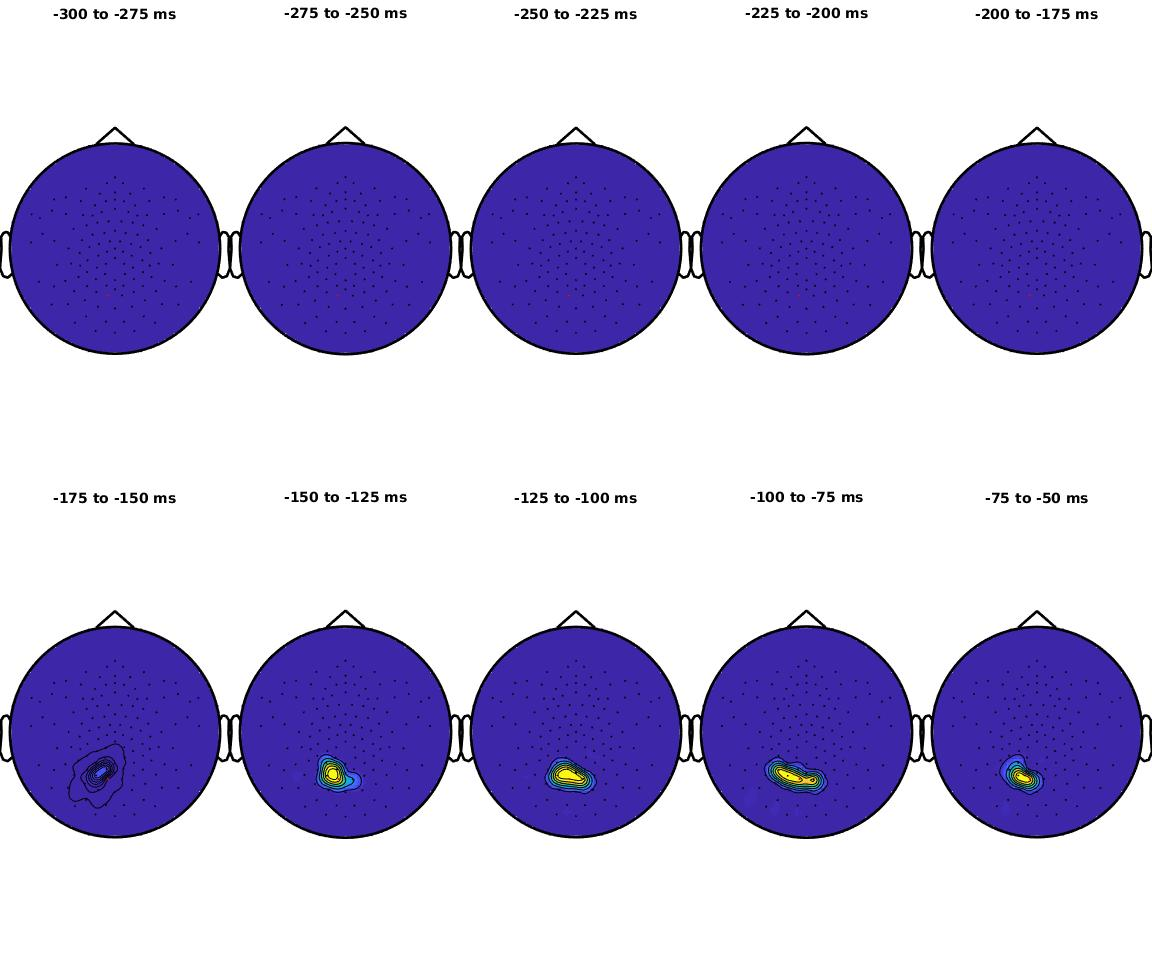
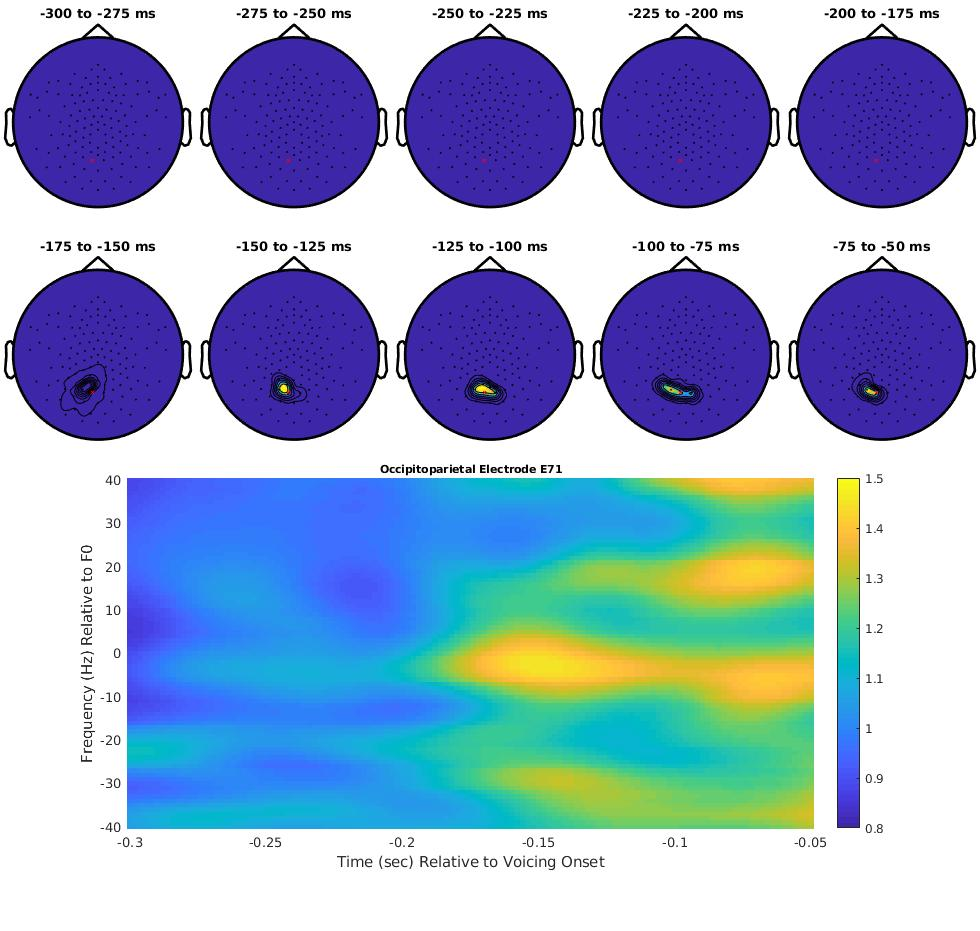
consolidates cluster plot and single electrode TFR into one figure

diff --git a/analysis.m b/analysis.m
@@ -91,52 +91,7 @@ cfg.uvar = 2; % and the second contains the subject number (unit variable)
 
 [stat] = ft_freqstatistics(cfg, activationAll, baselineAll);
 save('stat.mat', 'stat');
-
-%% plot group average TFR without mask
-cfg = [];
-cfg.maskstyle    = 'saturation';
-%cfg.zlim           = [1 5];
-cfg.baseline       = [-.55 -.3];
-cfg.ylim           = [-40 40];
-cfg.xlim           = [-.3 -0.05];
-cfg.baselinetype   = 'relchange';
-cfg.colormap = jet(30);
-cfg.channel      = {'all', '-E126', '-E127'};
-cfg.elec = ELEC;
-figure;
-ft_multiplotTFR(cfg,TFR);
-
-%% 
-cfg = [];
-cfg.maskstyle    = 'saturation';
-%cfg.zlim           = [1 5];
-cfg.baseline       = [-.55 -.3];
-cfg.ylim           = [-40 40];
-cfg.xlim           = [-.3 -0.05];
-cfg.baselinetype   = 'relative';
-cfg.colormap = jet(30);
-cfg.channel      = 'Cz';
-cfg.elec = ELEC;
-figure;
-ft_singleplotTFR(cfg,TFR);  
-
-
-%% single plot (without mask)
-% baseline the TFR
-cfg.baseline = [-.55 -.3];
-cfg.baselinetype = 'relative'; % 'relative' computes ERSP
-cfg.parameter = 'powspctrm';
-[TFR_ersp] = ft_freqbaseline(cfg, TFR);
-
-cfg = [];
-cfg.maskstyle = 'saturation';
-cfg.ylim = [-40 40];
-cfg.xlim = [-.3 -.05];
-%cfg.zlim = [.8 ];
-cfg.channel      = 'E71';
-cfg.elec = ELEC;
-figure;
-ft_singleplotTFR(cfg, TFR_ersp);  
+  
 
 
 %% cluster plot (masked)
@@ -168,12 +123,12 @@ j = [-.3:timestep:-.05];
 [i1,i2] = match_str(activation_ersp.label, stat.label);
 
 f = figure;
-[a, ~] = tight_subplot(2, 5, 0, 0, 0);
+[a, ~] = tight_subplot(4, 5, 0, 0, 0);
 for k = 1:(length(j)-1)
    set(f, 'currentaxes', a(k));
    cfg = [];
    cfg.xlim = [j(k) j(k+1)];   % time interval of the subplot
-   cfg.zlim = [0 1.2];
+   cfg.zlim = [.8 1.5];
    % If a channel is in a to-be-plotted cluster, then
    % the element of pos_int with an index equal to that channel
    % number will be set to 1 (otherwise 0).
@@ -186,8 +141,8 @@ for k = 1:(length(j)-1)
    % Get the index of the to-be-highlighted channel
    cfg.highlightchannel = 'E71';
    cfg.highlightcolor = [1 0 0];
-   cfg.highlightsymbol = 'o';
-   cfg.highlightsize = 1;
+   cfg.highlightsymbol = 'x';
+   cfg.highlightsize = 3;
    cfg.markersize = 1;
    cfg.elec      = ELEC;
    cfg.interactive = 'no';
@@ -200,22 +155,19 @@ for k = 1:(length(j)-1)
    title(txt);
 end
 
-% % make subplots less far apart
-% for k = 1:5
-%     pos = get(hAxis(k), 'Position');
-%     pos(2) = 0.5 ; % shift down
-%     pos(4) = 0.5 ; % make taller
-%     set(hAxis(k), 'Position', pos)
-% end
-% for k = 6:10
-%     pos = get(hAxis(k), 'Position');
-%     pos(2) = 0.3 ; % shift down
-%     pos(4) = 0.5 ; % make taller
-%     set(hAxis(k), 'Position', pos)
-% end
-
-
-
+subplot(4, 5, 11:20);
+cfg = [];
+cfg.maskstyle = 'saturation';
+cfg.ylim = [-40 40];
+cfg.xlim = [-.3 -.05];
+cfg.zlim = [.8 1.5];
+cfg.channel = 'E71';
+cfg.elec = ELEC;
+cfg.colorbar = 'yes';
+cfg.title = 'Occipitoparietal Electrode E71';
+ft_singleplotTFR(cfg, TFR_ersp); 
+xlabel('Time (sec) Relative to Voicing Onset');
+ylabel('Frequency (Hz) Relative to F0');
 
 
 
